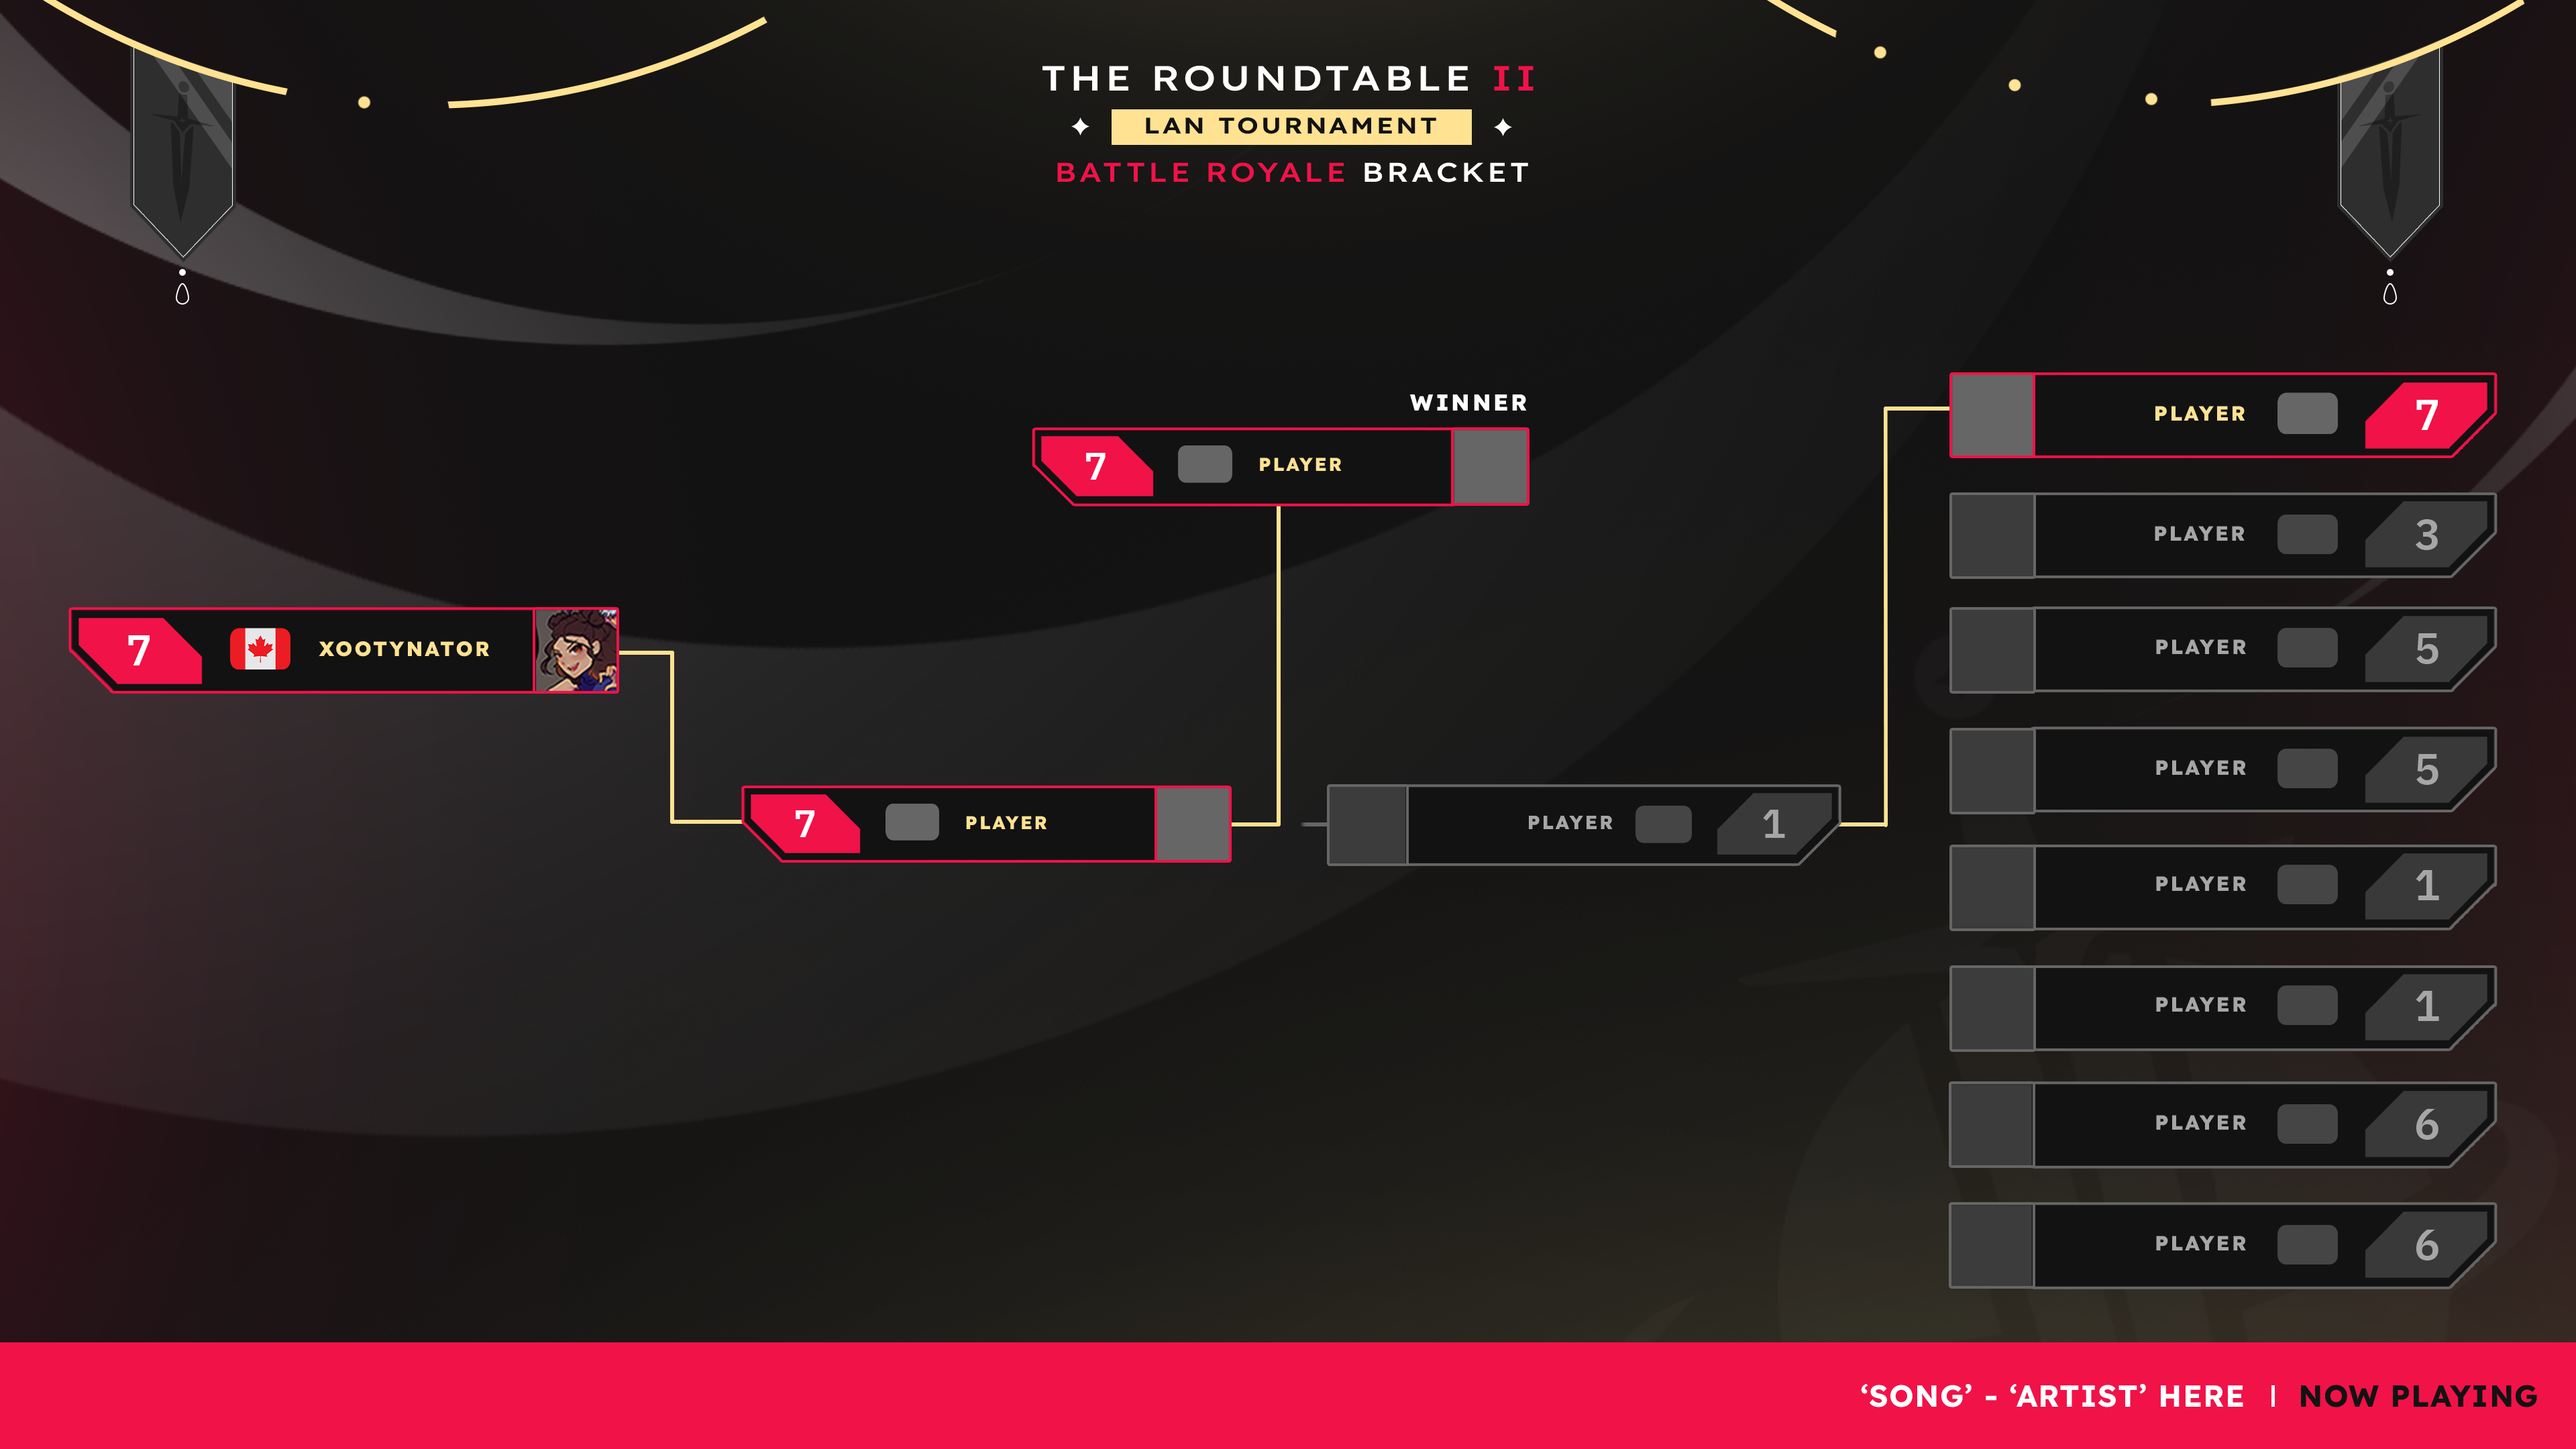
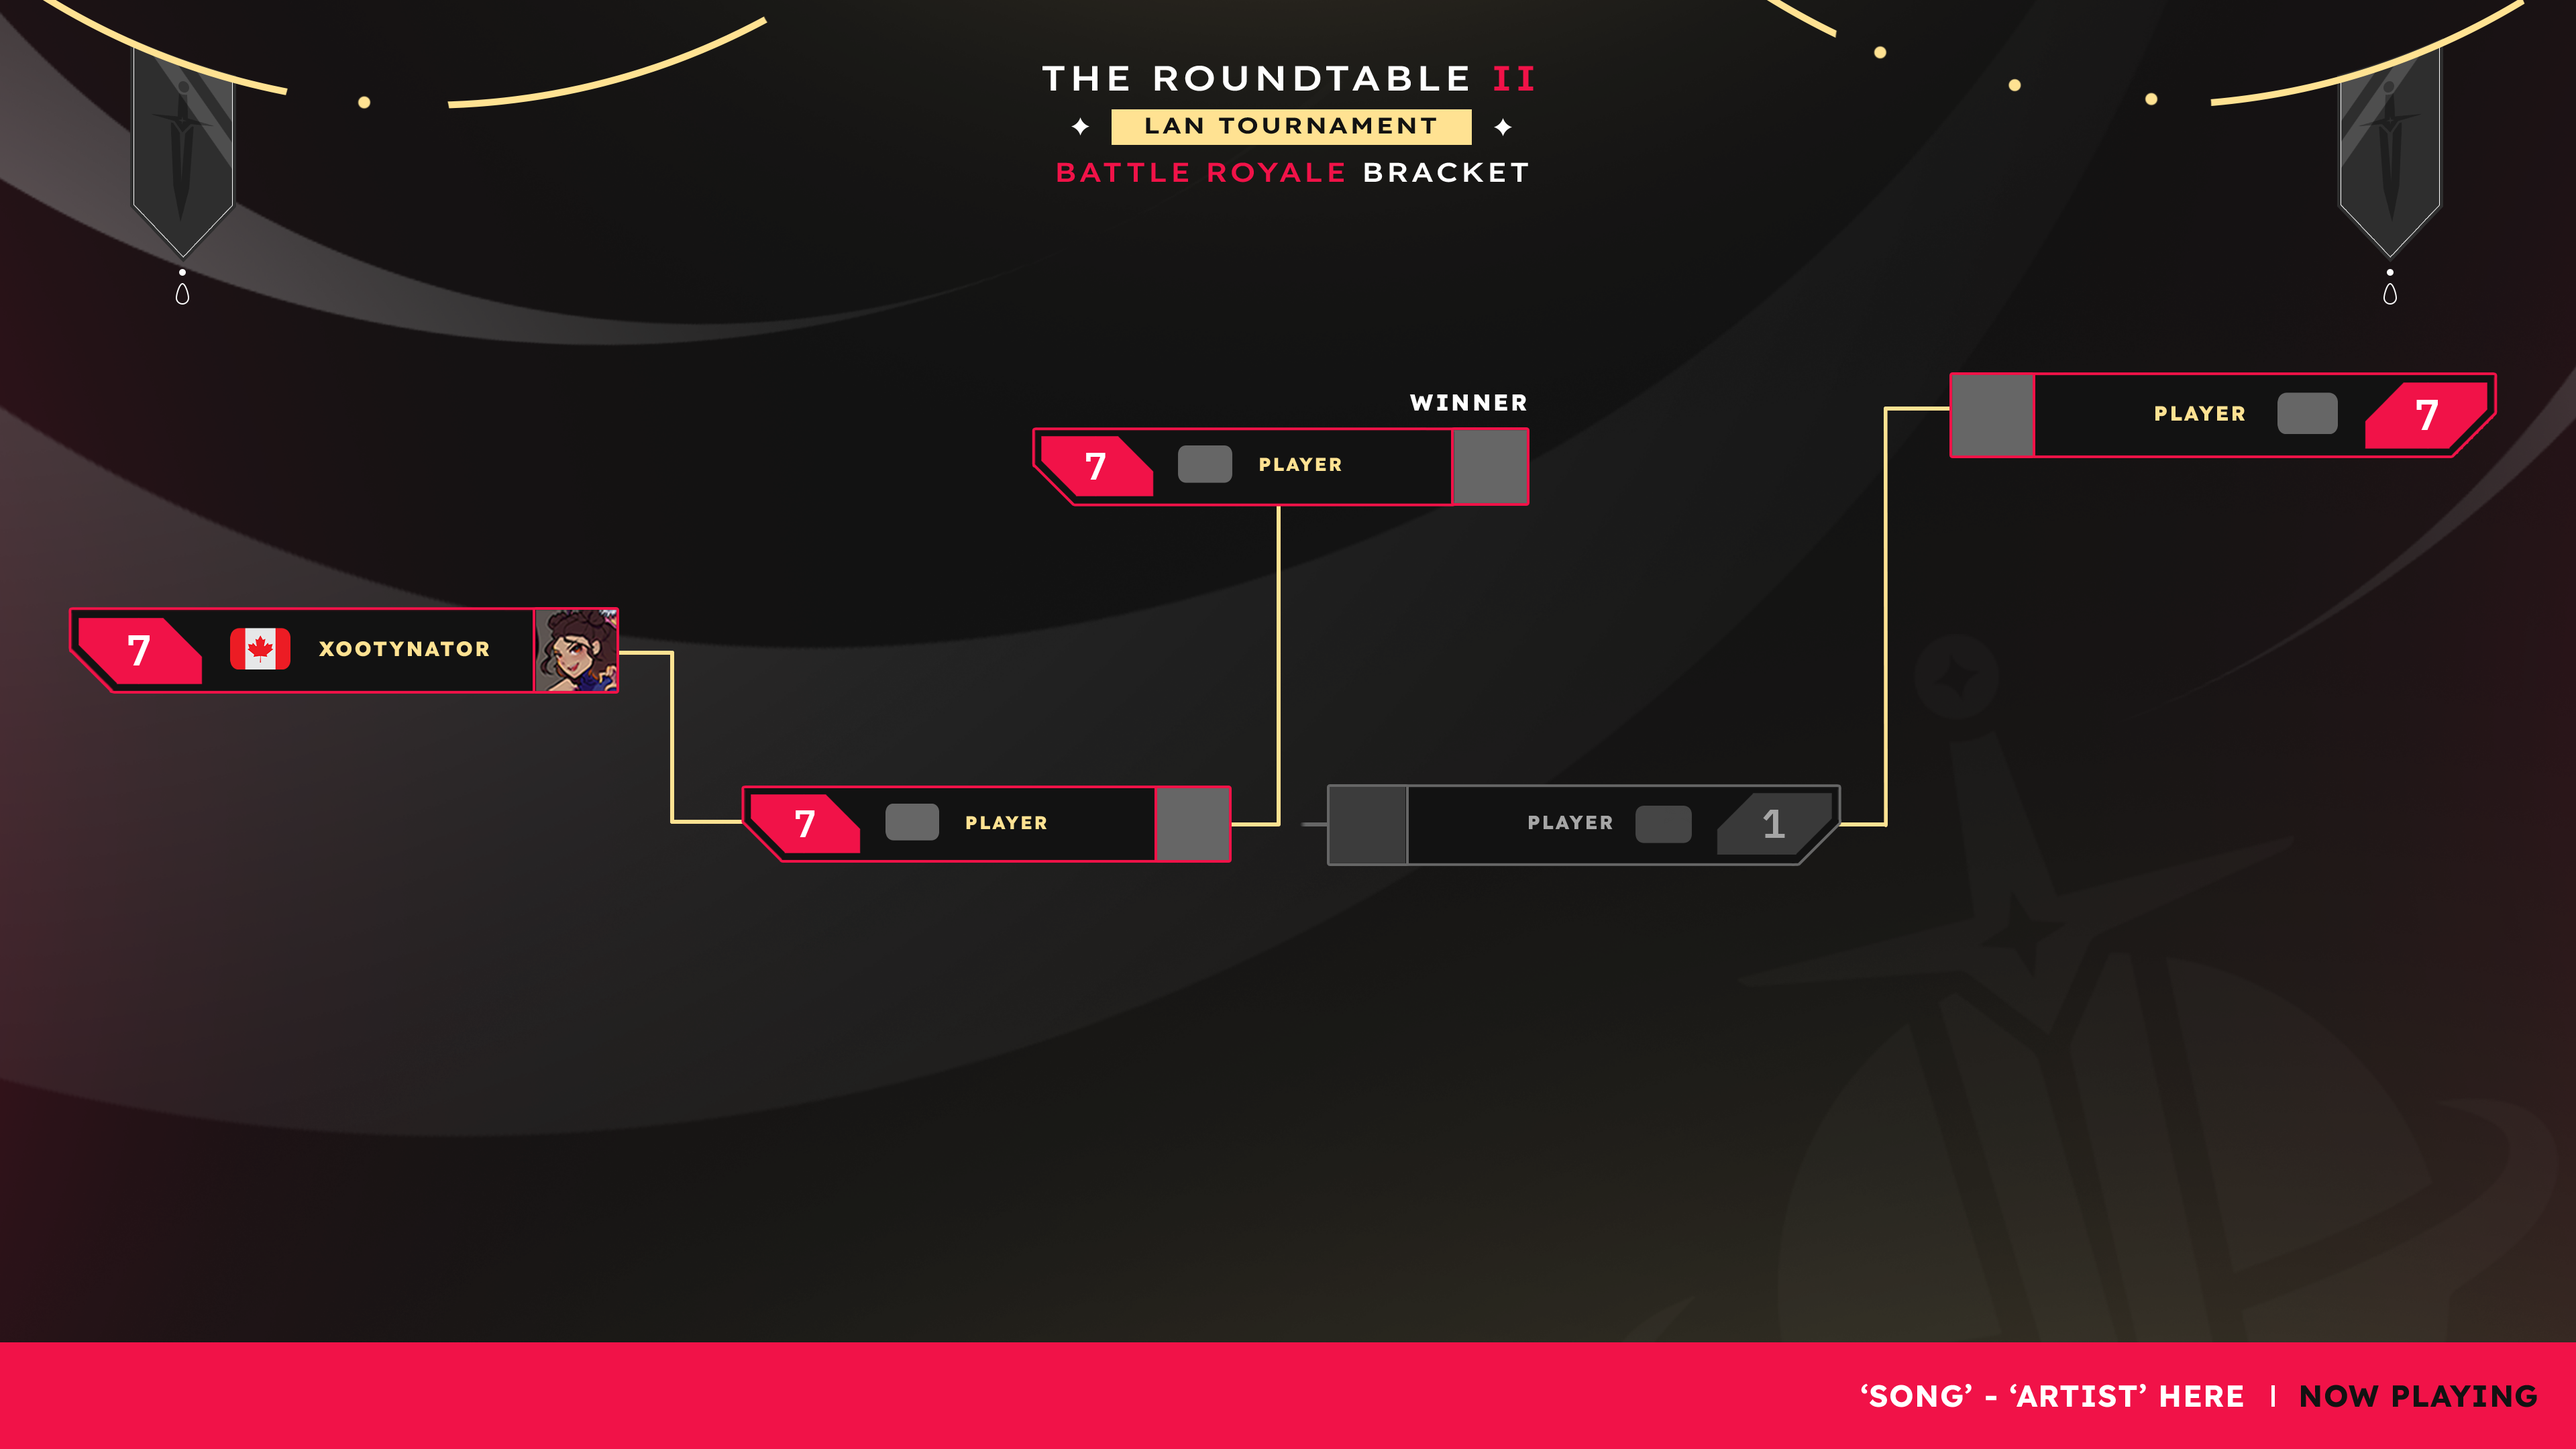
Add style right players

Changed region(s): [[0.75, 0.3412, 0.9688, 0.8995]]

diff --git a/br-brackets/index.html b/br-brackets/index.html
@@ -74,7 +74,64 @@
         <!-- Players Middle -->
         <!-- Winner -->
         <!-- Players Right -->
-        <section class="playerSideSections" id="playersRight"></section>
+        <section class="playerSideSections" id="playersRight">
+            <div class="rightSidePlayer">
+                <div class="rightSidePlayerOverlay"></div>
+                <div class="rightSidePlayerSeeding">1</div>
+                <div class="rightSidePlayerFlag"></div>
+                <div class="rightSidePlayerName">PLAYER</div>
+                <div class="rightSideProfilePicture"></div>
+            </div>
+            <div class="rightSidePlayer">
+                <div class="rightSidePlayerOverlay"></div>
+                <div class="rightSidePlayerSeeding">1</div>
+                <div class="rightSidePlayerFlag"></div>
+                <div class="rightSidePlayerName">PLAYER</div>
+                <div class="rightSideProfilePicture"></div>
+            </div>
+            <div class="rightSidePlayer">
+                <div class="rightSidePlayerOverlay"></div>
+                <div class="rightSidePlayerSeeding">1</div>
+                <div class="rightSidePlayerFlag"></div>
+                <div class="rightSidePlayerName">PLAYER</div>
+                <div class="rightSideProfilePicture"></div>
+            </div>
+            <div class="rightSidePlayer">
+                <div class="rightSidePlayerOverlay"></div>
+                <div class="rightSidePlayerSeeding">1</div>
+                <div class="rightSidePlayerFlag"></div>
+                <div class="rightSidePlayerName">PLAYER</div>
+                <div class="rightSideProfilePicture"></div>
+            </div>
+            <div class="rightSidePlayer">
+                <div class="rightSidePlayerOverlay"></div>
+                <div class="rightSidePlayerSeeding">1</div>
+                <div class="rightSidePlayerFlag"></div>
+                <div class="rightSidePlayerName">PLAYER</div>
+                <div class="rightSideProfilePicture"></div>
+            </div>
+            <div class="rightSidePlayer">
+                <div class="rightSidePlayerOverlay"></div>
+                <div class="rightSidePlayerSeeding">1</div>
+                <div class="rightSidePlayerFlag"></div>
+                <div class="rightSidePlayerName">PLAYER</div>
+                <div class="rightSideProfilePicture"></div>
+            </div>
+            <div class="rightSidePlayer">
+                <div class="rightSidePlayerOverlay"></div>
+                <div class="rightSidePlayerSeeding">1</div>
+                <div class="rightSidePlayerFlag"></div>
+                <div class="rightSidePlayerName">PLAYER</div>
+                <div class="rightSideProfilePicture"></div>
+            </div>
+            <div class="rightSidePlayer">
+                <div class="rightSidePlayerOverlay"></div>
+                <div class="rightSidePlayerSeeding">1</div>
+                <div class="rightSidePlayerFlag"></div>
+                <div class="rightSidePlayerName">PLAYER</div>
+                <div class="rightSideProfilePicture"></div>
+            </div>
+        </section>
         <!-- Now Playing Section -->
         <section id="nowPlayingSection">
             <div id="nowPlayingSongArtist">'SONG' - 'ARTIST' HERE</div>

diff --git a/br-brackets/css/style.css b/br-brackets/css/style.css
@@ -32,12 +32,24 @@
     border-radius: 3px;
     clip-path: polygon(0% 0%, 100% 0%, 100% 100%, 9% 100%, 0% 45%);
 }
+.rightSidePlayer {
+    width: 411px; height: 65px;
+    background-color: var(--borderGray);
+    border-radius: 3px;
+    clip-path: polygon(0% 0%, 100% 0%, 100% 45%, 91% 100%, 0% 100%);
+}
 /* Overlay Element */
 .leftSidePlayerOverlay {
     position: relative; top: 3px; left: 3px;
     width: 406px; height: 60px;
     background-color: var(--backgroundGray);
     clip-path: polygon(0% 0%, 100% 0%, 100% 100%, 8.5% 100%, 0% 43%);
+}
+.rightSidePlayerOverlay {
+    position: relative; top: 3px; left: 3px;
+    width: 406px; height: 60px;
+    background-color: var(--backgroundGray);
+    clip-path: polygon(0% 0%, 0% 100%, 91.5% 100%, 100% 43%, 100% 0%);
 }
 /* Seed Element */
 .leftSidePlayerSeeding {
@@ -50,9 +62,25 @@
     font-family: 'IBM Plex Mono', monospace; font-size: 32px;
     line-height: 49px;
 }
+.rightSidePlayerSeeding {
+    position: relative; top: -51px; left: 314px;
+    background-color: var(--elementGray);
+    color: var(--textGray);
+    width: 91px; height: 48px;
+    clip-path: polygon(100% 0%,36% 0%, 0% 57%, 0% 100%, 64% 100%, 100% 33%);
+    text-align: center;
+    font-family: 'IBM Plex Mono', monospace; font-size: 32px;
+    line-height: 49px;
+}
 /* Country */
 .leftSidePlayerFlag {
     position: relative; top: -91px; left: 122px;
+    background-color: var(--elementGray);
+    width: 44px; height: 29px;
+    border-radius: 6px;
+}
+.rightSidePlayerFlag {
+    position: relative; top: -91px; left: 248px;
     background-color: var(--elementGray);
     width: 44px; height: 29px;
     border-radius: 6px;
@@ -64,12 +92,25 @@
     font-family: 'Lexend', sans-serif; font-weight: 800; font-size: 15.3px;
     letter-spacing: 1.5px;
 }
+.rightSidePlayerName {
+    position: relative; top: -114.5px; left: 63px;
+    width: 163px; text-align: right;
+    color: var(--textGray);
+    font-family: 'Lexend', sans-serif; font-weight: 800; font-size: 15.3px;
+    letter-spacing: 1.5px;
+}
 /* Profile Picture */
 .leftSideProfilePicture {
     position: relative; left: 347px; top: -154px;
     width: 60px; height: 60px;
     background-color: var(--elementGray);
     border-left: 2px solid var(--borderGray);
+}
+.rightSideProfilePicture {
+    position: relative; left: 3px; top: -153px;
+    width: 60px; height: 60px;
+    background-color: var(--elementGray);
+    border-right: 2px solid var(--borderGray);
 }
 
 
